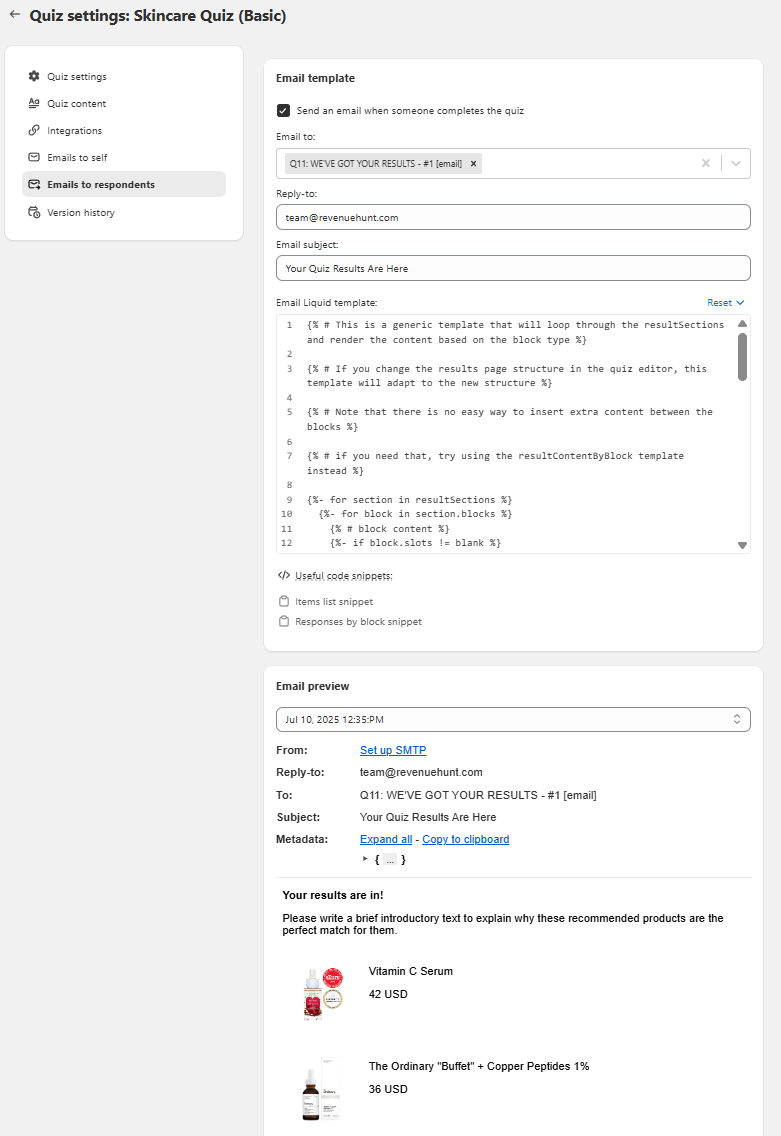
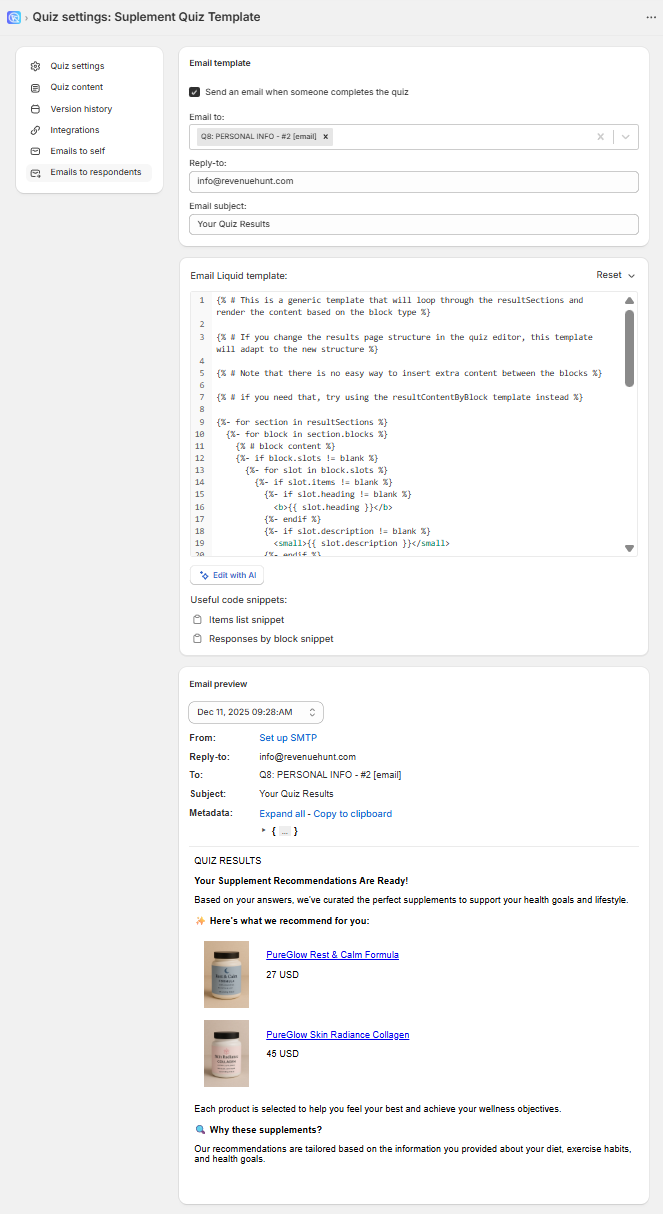
docs: update quiz builder notification documentation with new images and refined instructions for email setup

Changed region(s): [[0.0, 0.0, 0.9653, 0.9859], [0.9351, 0.6162, 0.9653, 0.647]]

diff --git a/docs/reference/quiz-builder/notifications.md b/docs/reference/quiz-builder/notifications.md
@@ -2,7 +2,7 @@
 
 === "Shopify"
 
-    In the Notifications tab of the Quiz Builder, you can activate and edit the emails that the customer or the store owner receives at the end of the quiz.
+    To set up email notifications, go to [Quiz Settings](/reference/quiz-builder/quiz-settings/) section. You can set up [Emails to self](#to-self) (email notifications to the store owner) and [Emails to respondents](#to-respondent) (email notifications to the quiz takers).
 
 
 === "Shopify (Legacy)"
